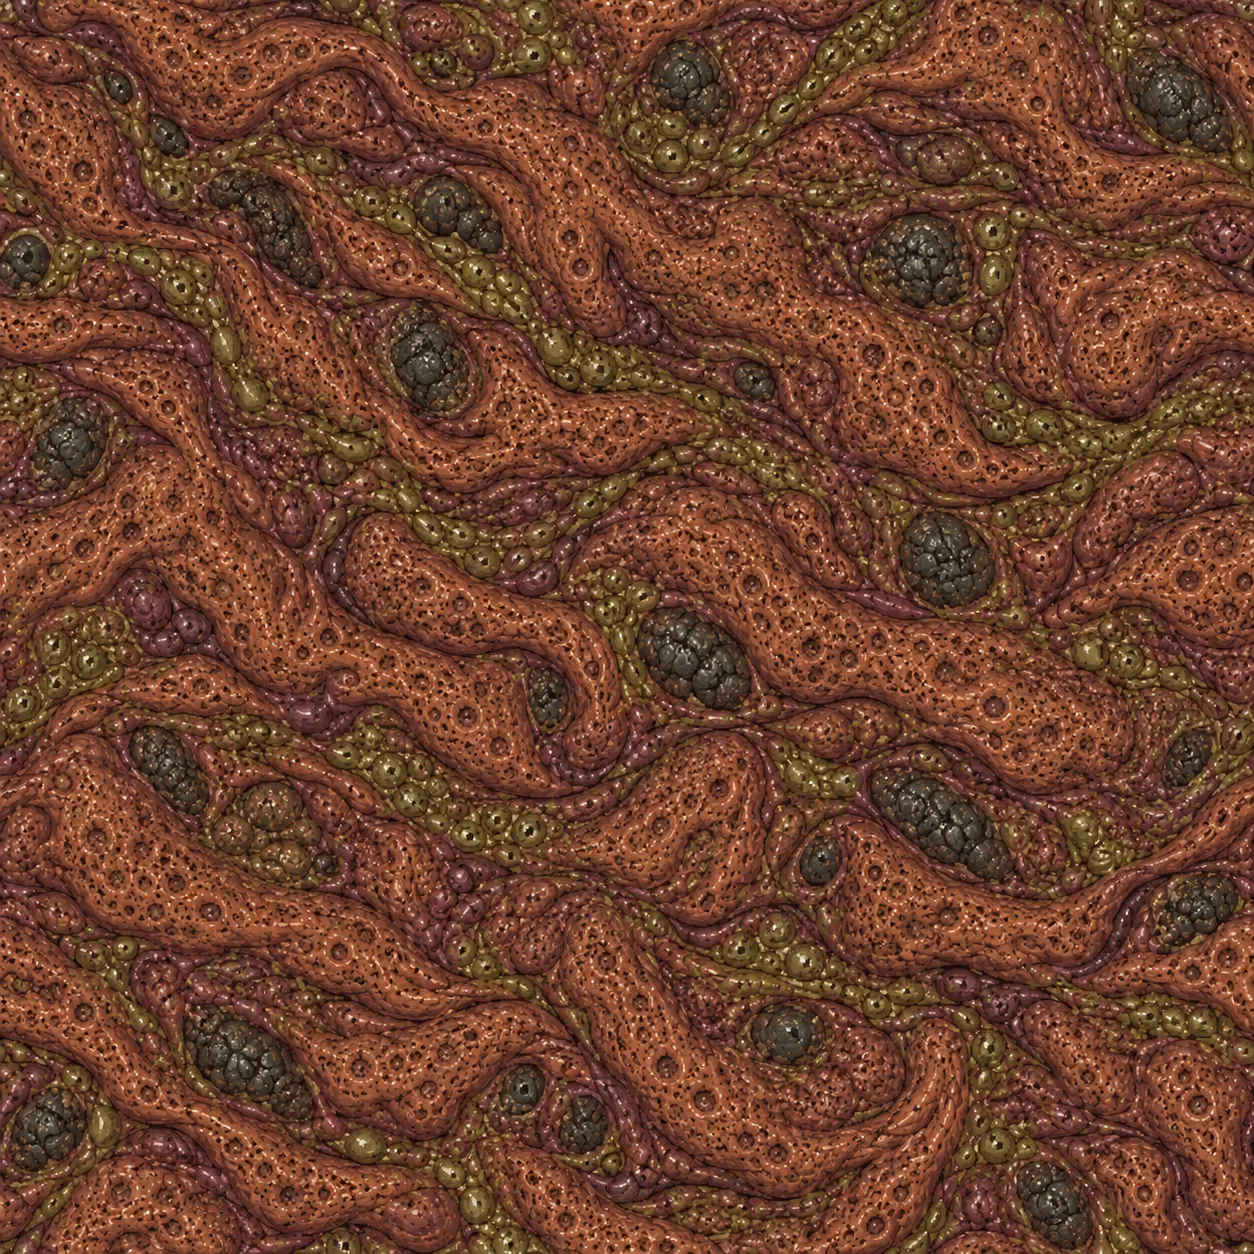
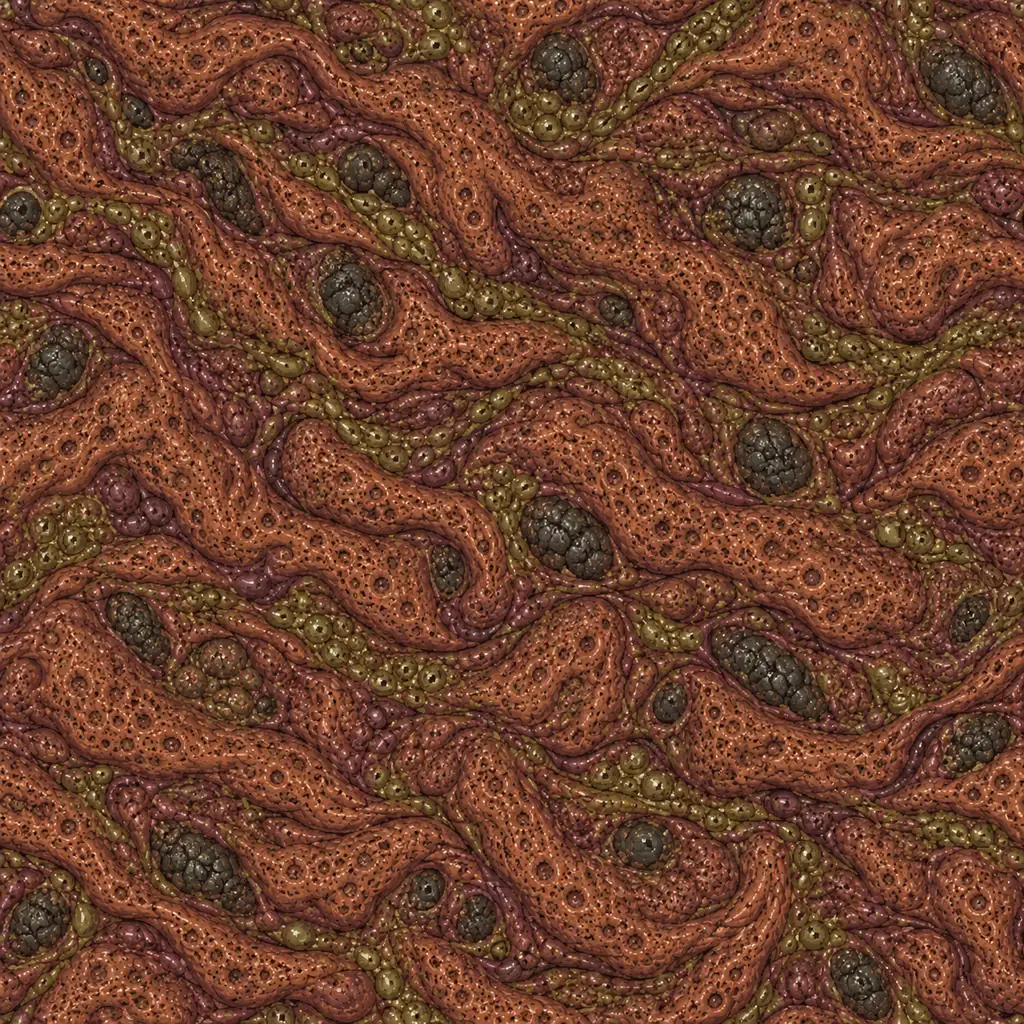
fix(assets): keep the lair textures inside the kit's size limit
The brand layer's zip is one Cloudflare asset, and an asset may be 25 MiB at most. The full-size room textures and the tunnel painting took the zip to 25.2 MiB, so the deploy step refused it. At 1024 pixels the three textures add 0.56 MB and the zip stays under the limit.

diff --git a/docs/brand/kit.md b/docs/brand/kit.md
@@ -483,7 +483,7 @@ The floor keeps its own tissue map. Both surfaces breathe under scene lighting.
 | File | Role |
 | --- | --- |
 | assets/source/room-diffuse.png | Full-resolution room texture master |
-| assets/brand/kit/lair/room-diffuse.webp | Runtime room texture, at the size of its master |
+| assets/brand/kit/lair/room-diffuse.webp | Runtime room texture, 1024 pixels |
 | assets/source/tunnel-diffuse.png | Smooth painting of the flesh tile, as generated |
 | assets/brand/kit/lair/tunnel-diffuse.webp | Runtime tissue of the tunnel wall and the wall folds on the homepage |
 | assets/prompts/tunnel-diffuse.json | Exact prompt, references, and runtime preparation |
